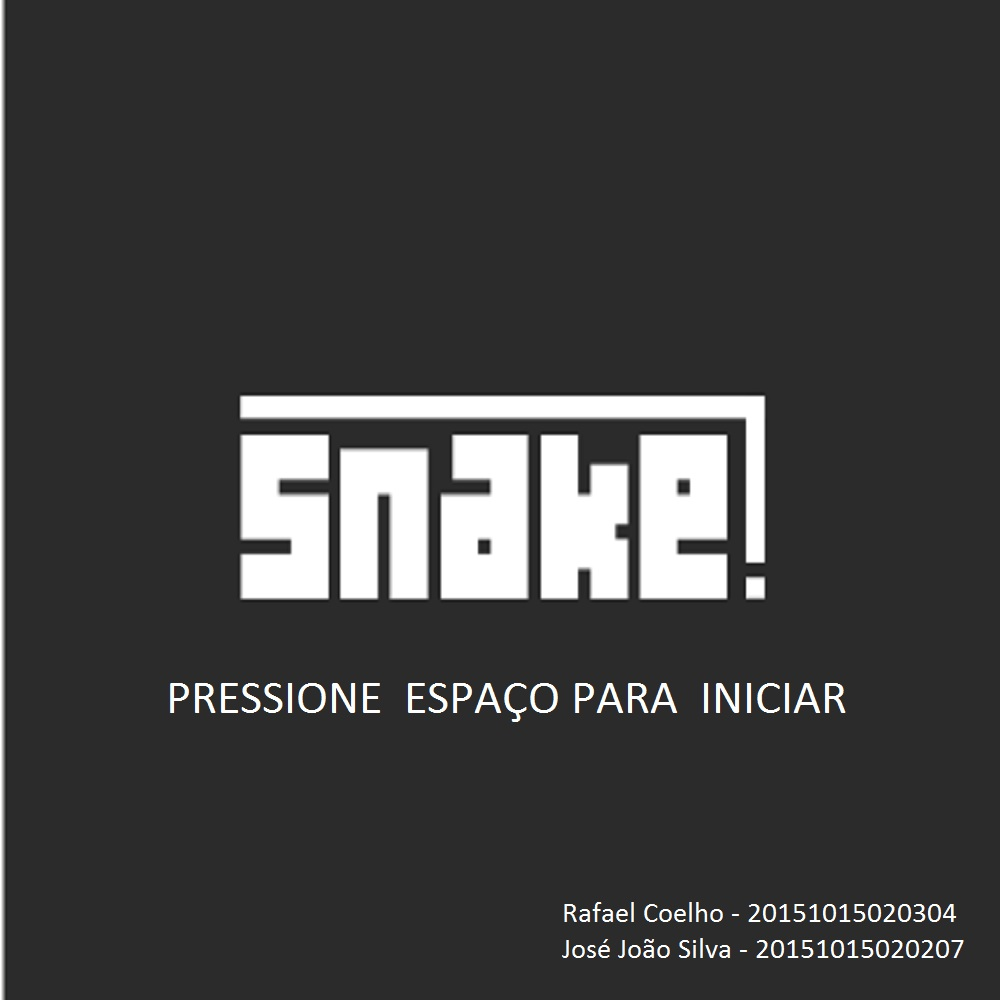
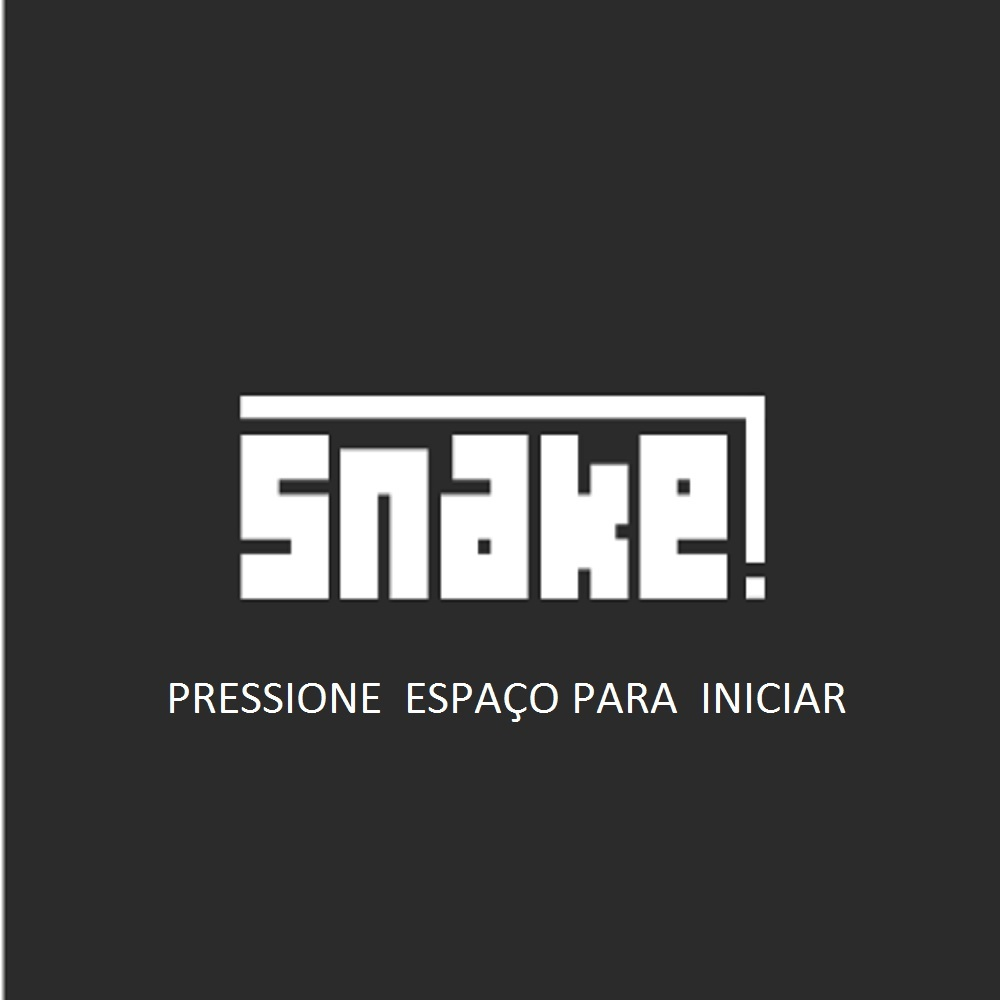
Atualização de ReadMe e Tela inicial

Changed region(s): [[0.558, 0.899, 0.961, 0.961]]

diff --git a/README.md b/README.md
@@ -1,1 +1,34 @@
 # SnakeGame
+Trabalho de Lógica de programação do primeiro semestre do curso de Engenharia de Computação do Instituto Federal de Educação, Ciência e Tecnologia do Ceará.
+
+### Autores:
+
+* **José João Silva** - [jjoaosilva](https://github.com/jjoaosilva/)
+* **Rafael Coelho** - [rafaellcoellho](https://github.com/rafaellcoellho/)
+
+## Sobre
+Trabalho proposto tinha como objetivo testar o aprendizado de lógica de programação dos alunos utilizando a linguagem de programação Logo.
+Para isso, tivemos a ideia de fazer o famoso Snake Game. 
+
+## Dicas s2
+* Para baixar o interpretador, acesse o link: http://xlogo.tuxfamily.org/pt/index.html , lá você irá encontrar informações gerais sobre Logo e o proprio interpretador.
+* Antes de jogar, leia o manual.
+
+## Telas
+
+### Tela de início
+![alt text](https://github.com/jjoaosilva/SnakeGame/blob/master/img/inicial.PNG?raw=true)
+
+### Tela do jogo
+![alt text](https://github.com/jjoaosilva/SnakeGame/blob/master/img/jogo.PNG?raw=true)
+
+### Tela de game over
+![alt text](https://github.com/jjoaosilva/SnakeGame/blob/master/img/fim2.PNG?raw=true)
+
+### Tela de encerramento
+![alt text](https://github.com/jjoaosilva/SnakeGame/blob/master/img/fim.PNG?raw=true)
+
+## Músicas
+ 
+* Daft Punk - Get Lucky : 8 bits
+* Hino Uefa Champions League : 8 bits
